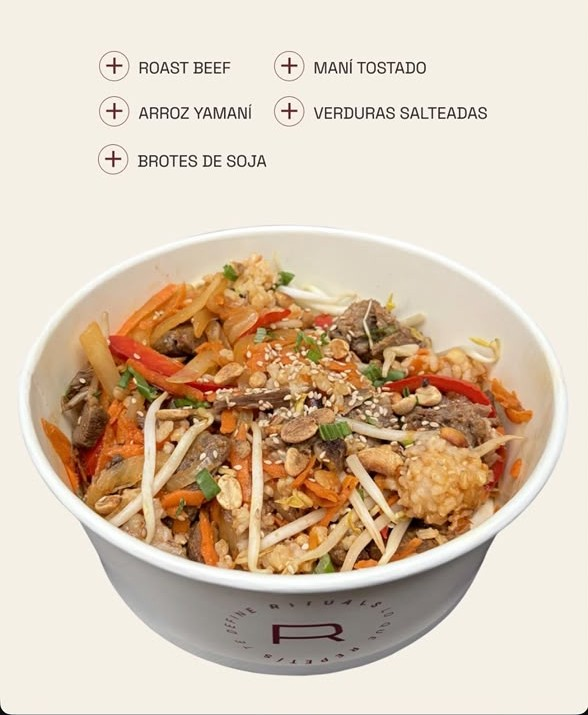
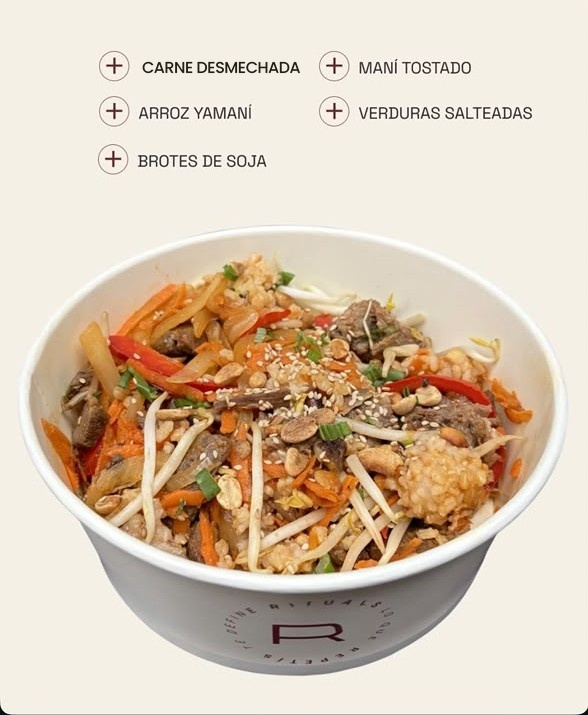
Add files via upload

Changed region(s): [[0.2449, 0.0615, 0.9184, 0.1846]]

diff --git a/index.html b/index.html
@@ -1141,7 +1141,7 @@ var DISHES = {
     {name:"Vegan Power", img:"vegan-power.jpg", price:16500, veggie:true, desc:"Lentejas especiadas, hummus de garbanzos, tomate, espinaca, salsa criolla, nueces", note:"Viene con chips de acompañamiento.", macros:{p:26,c:100,g:23,f:15,k:657}}
   ],
   woks: [
-    {name:"Criollo Umami", img:"criollo-umami.jpg", price:18000, protein:"carne", desc:"Roast beef, arroz yamaní, maní tostado, verduras salteadas, brotes de soja", macros:{p:54,c:66,g:24,f:12,k:694}},
+    {name:"Criollo Umami", img:"criollo-umami.jpg", price:18000, protein:"carne", desc:"Carne desmechada, arroz yamaní, maní tostado, verduras salteadas, brotes de soja", macros:{p:54,c:66,g:24,f:12,k:694}},
     {name:"Golden Chicken", img:"golden-chicken.jpg", price:17000, protein:"pollo", desc:"Pollo, arroz yamaní, maní tostado, verduras salteadas, brotes de soja", macros:{p:53,c:63,g:18,f:11,k:630}},
     {name:"Asian Veggie", img:"asian-veggie.jpg", price:15000, desc:"Huevo, arroz yamaní, maní tostado, verduras salteadas, soja texturizada especiada", macros:{p:47,c:76,g:21,f:13,k:677}}
   ],
